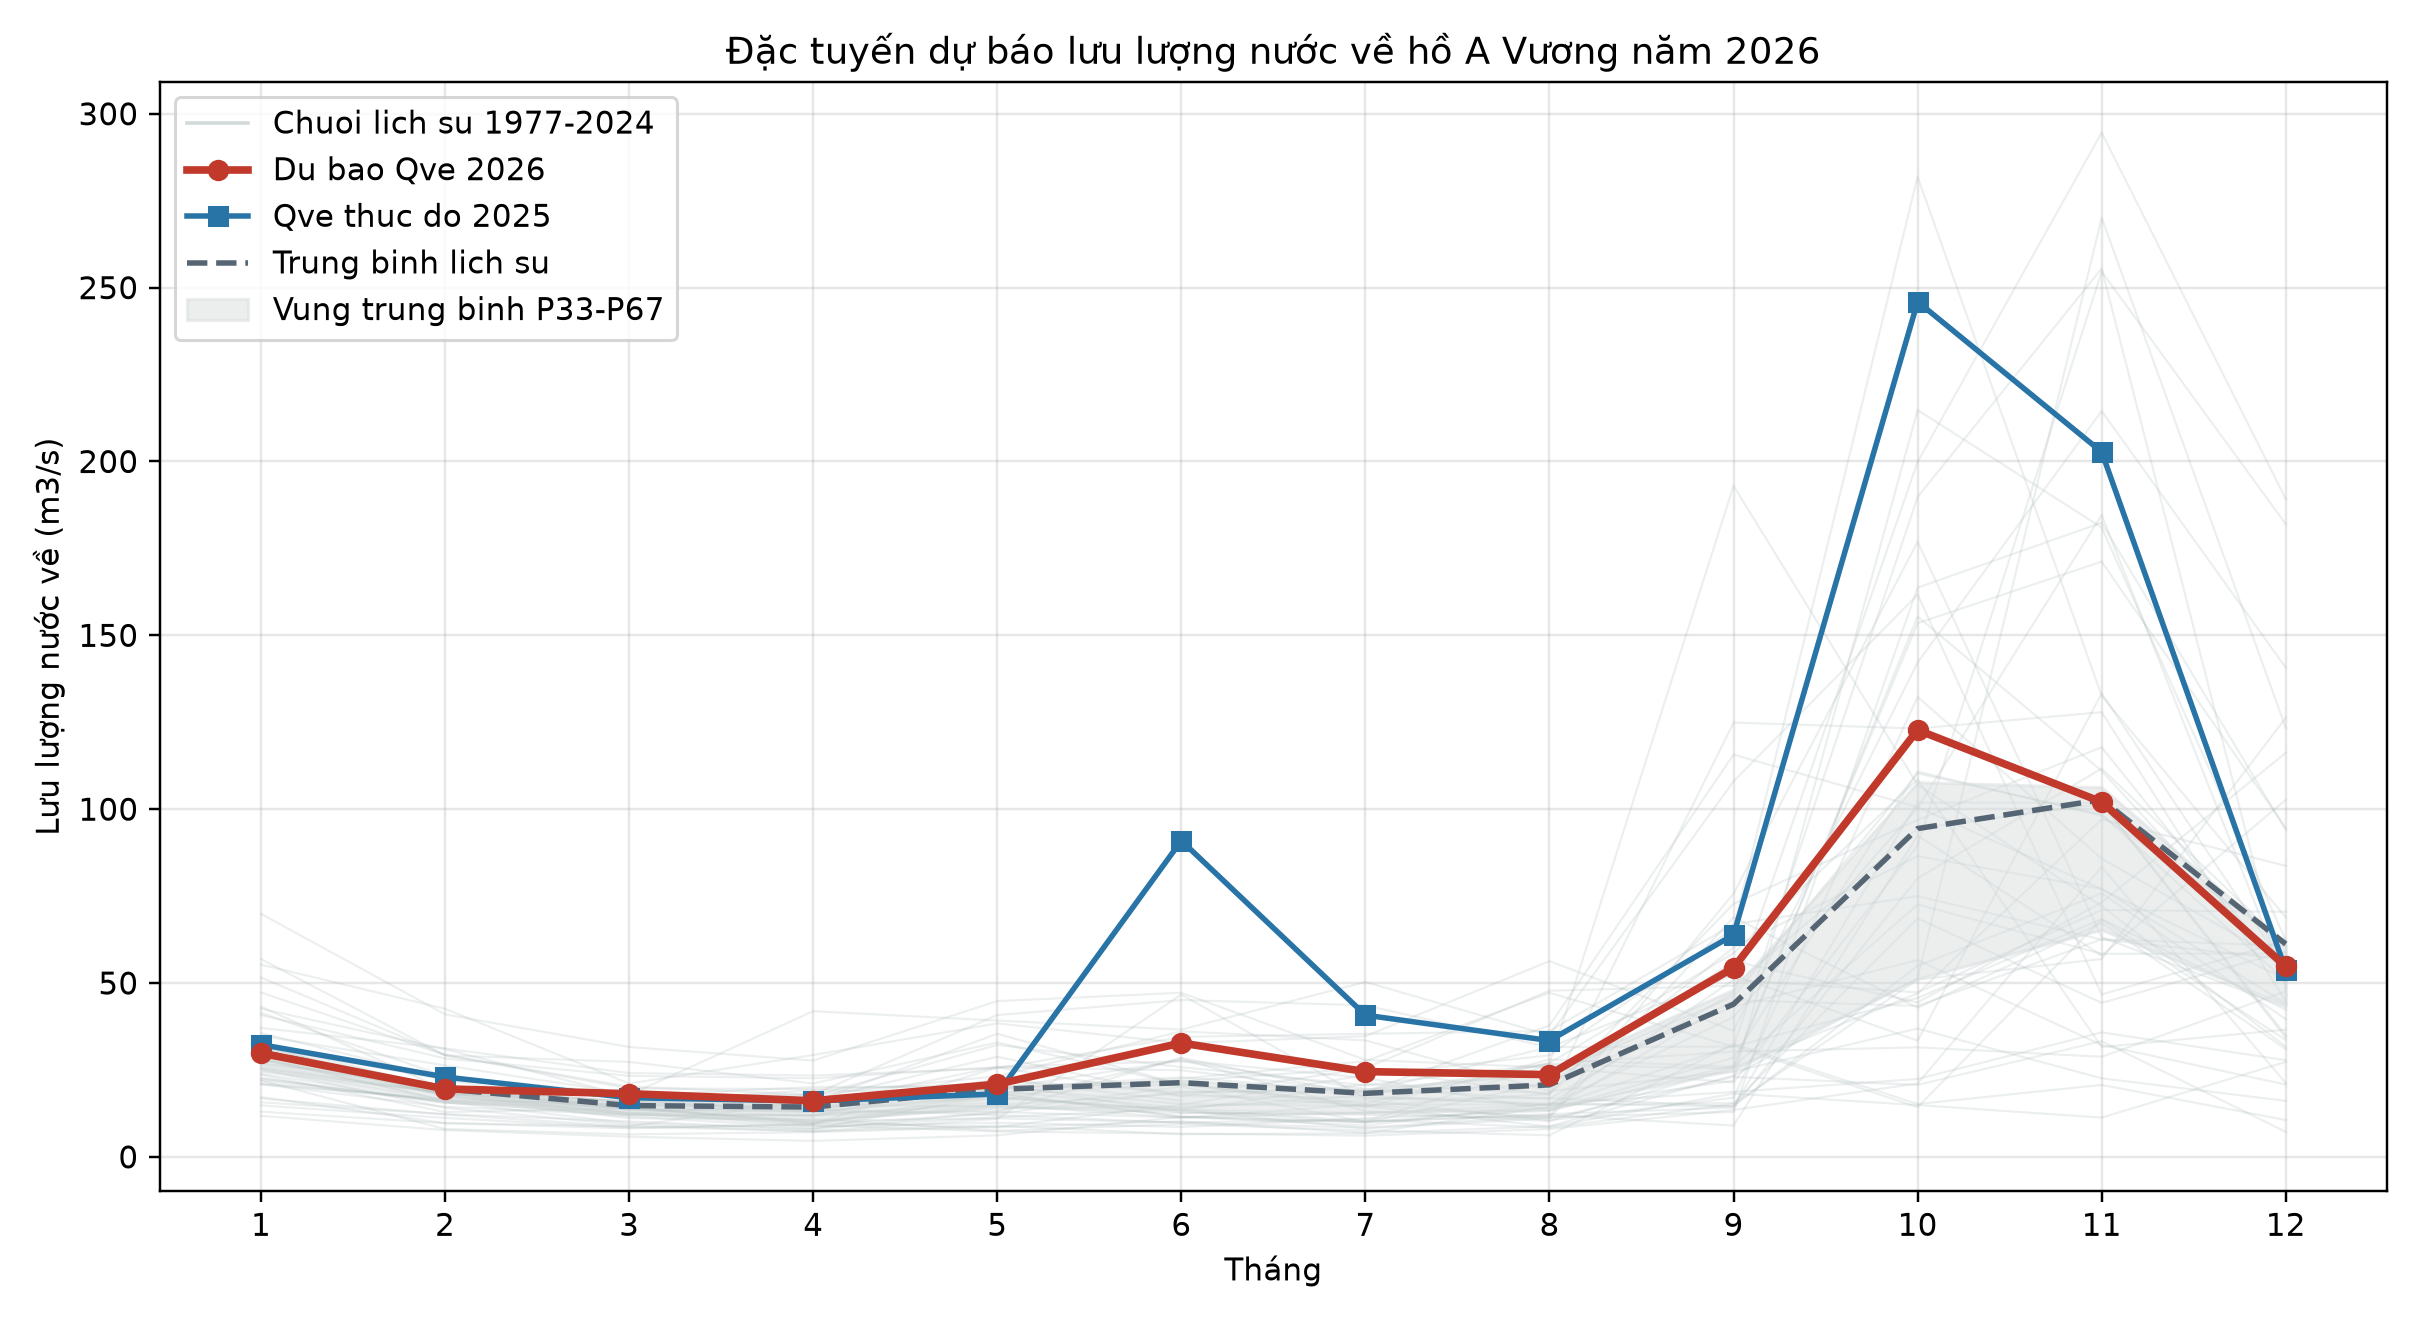
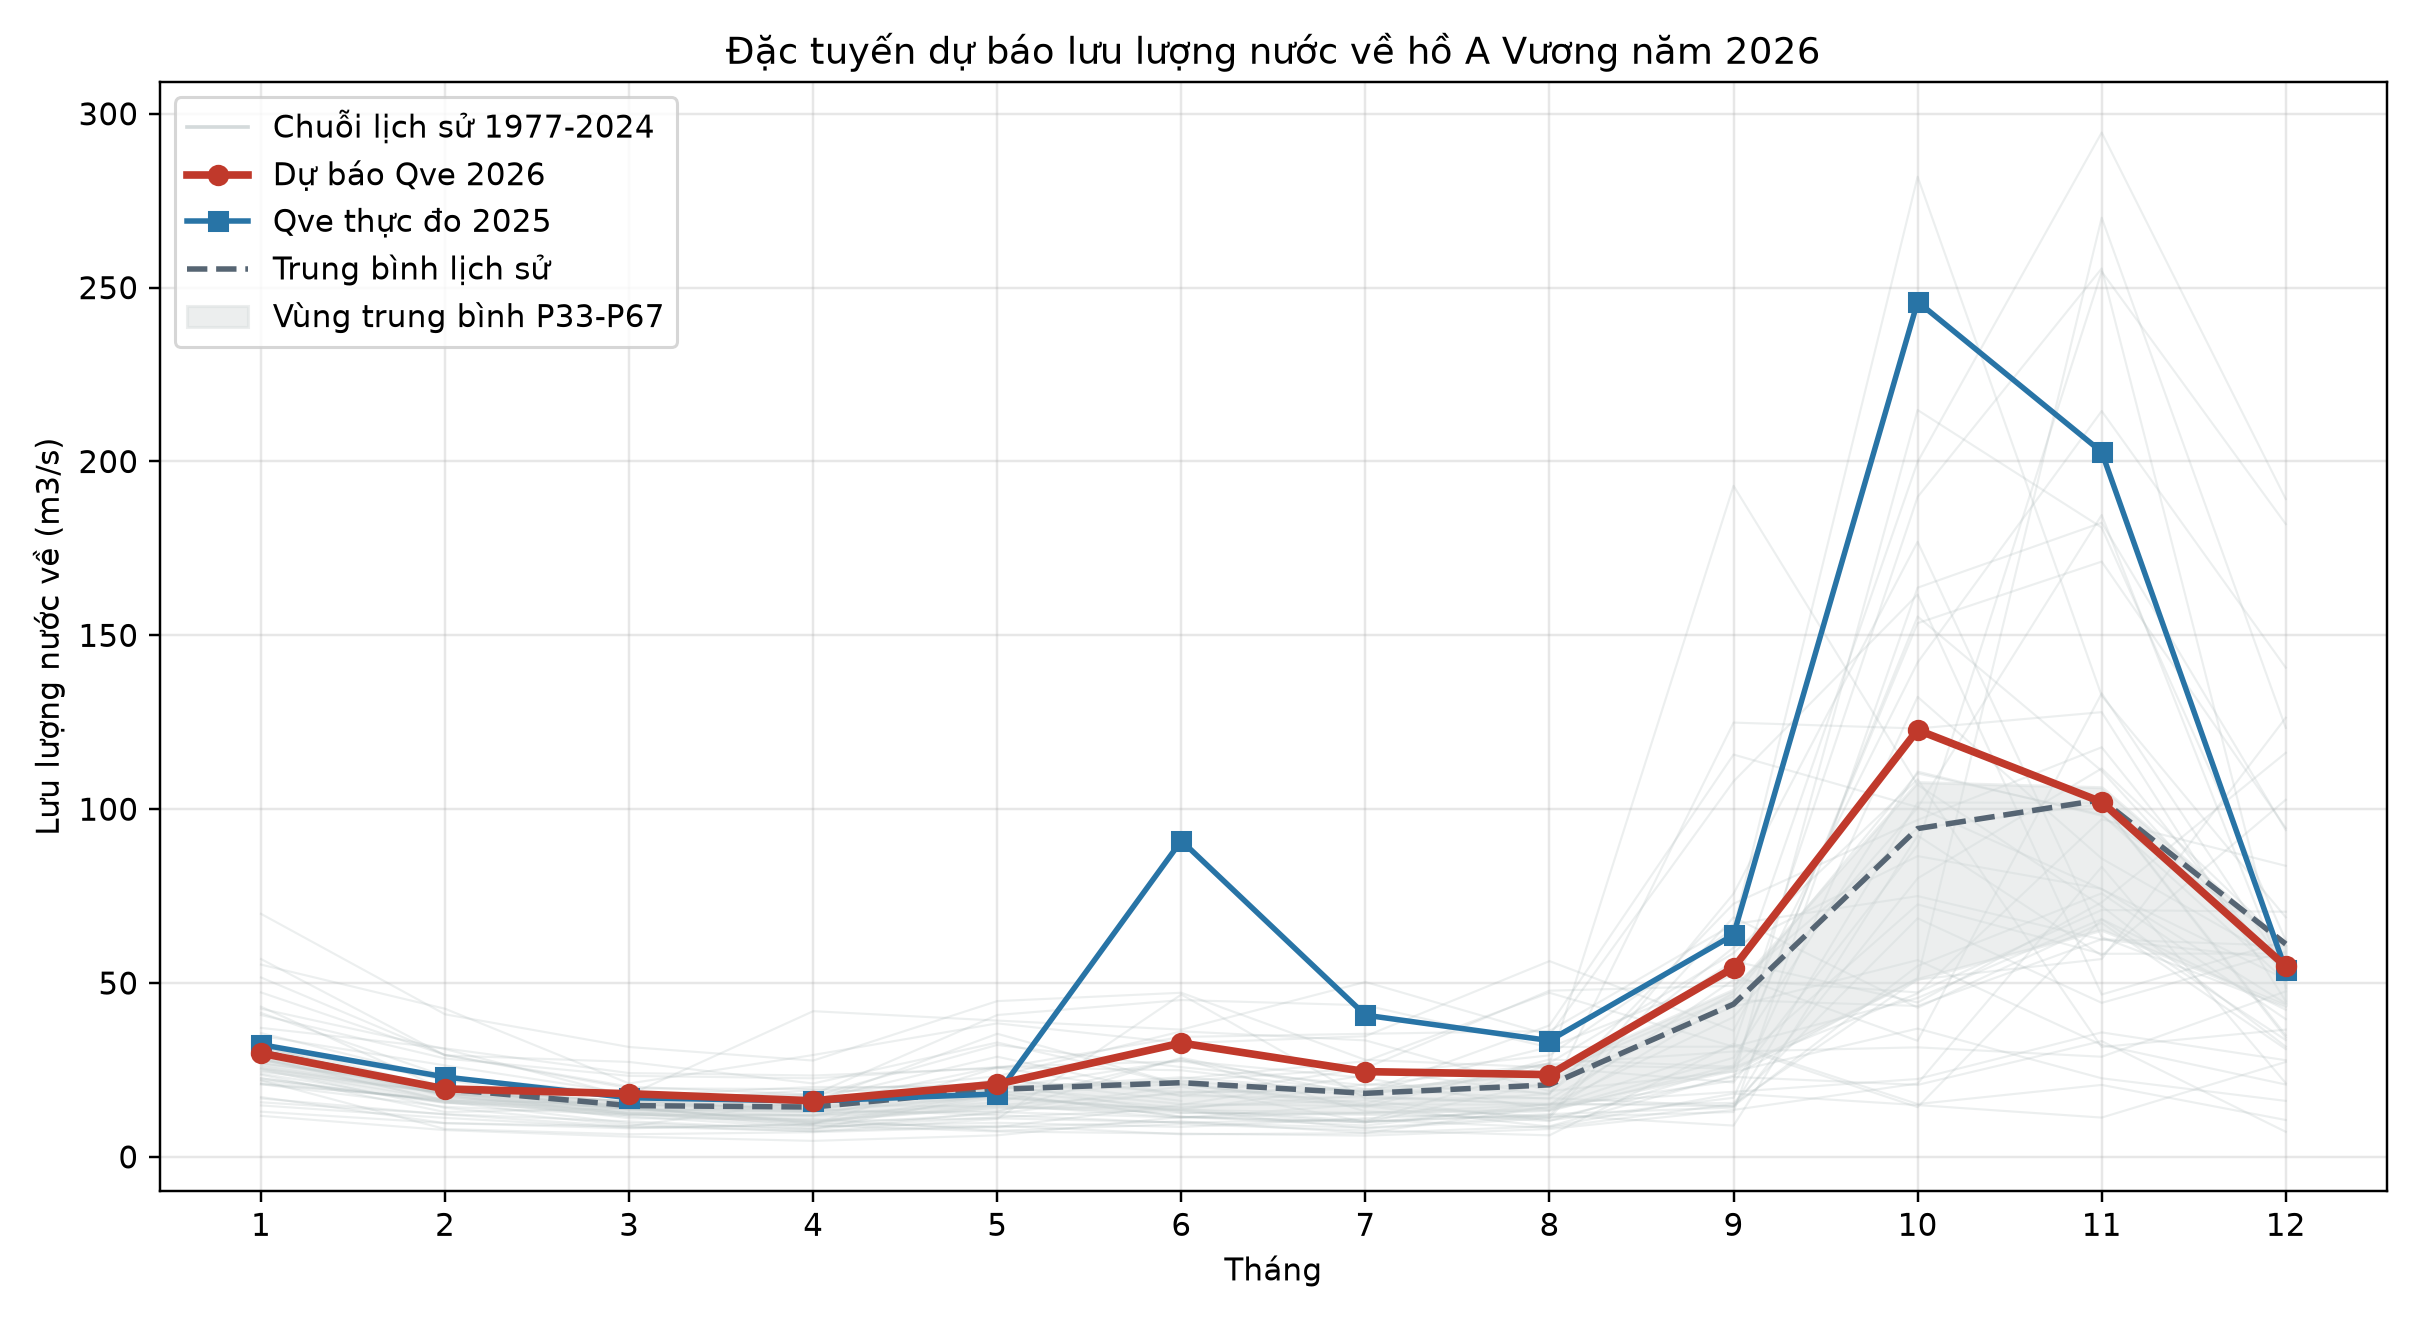
Use accented Vietnamese in comments and scenarios

Changed region(s): [[0.062, 0.0621, 0.2789, 0.2795]]

diff --git a/web_report/forecast-data.js b/web_report/forecast-data.js
@@ -1,10 +1,10 @@
 window.FORECAST_DATA_BY_YEAR = {
   "2026": {
     "year": 2026,
-    "generated_at": "2026-07-10T10:30:59",
+    "generated_at": "2026-07-14T14:53:15",
     "report_file": "bao_cao_du_bao_2026.xlsx",
     "chart_file": "du_bao_nuoc_ve_2026.png",
-    "executive_comment": "Nam 2026 duoc du bao nhieu nuoc hon trung binh lich su. Luu luong nuoc ve trung binh nam uoc tinh 43.3 m3/s, so voi trung binh lich su theo thang la 38.4 m3/s. Thang co du bao cao nhat la thang 10 (122.8 m3/s); thang thap nhat la thang 4 (16.1 m3/s). Can tiep tuc cap nhat theo dien bien mua va so lieu van hanh ho de hieu chinh du bao.",
+    "executive_comment": "Năm 2026 được dự báo nhiều nước hơn trung bình lịch sử. Lưu lượng nước về trung bình năm ước tính 43.3 m³/s, so với trung bình lịch sử theo tháng là 38.4 m³/s. Tháng có dự báo cao nhất là tháng 10 (122.8 m³/s); tháng thấp nhất là tháng 4 (16.1 m³/s). Cần tiếp tục cập nhật theo diễn biến mưa và số liệu vận hành hồ để hiệu chỉnh dự báo.",
     "summary": {
       "forecast_mean_m3s": 43.29,
       "historical_mean_m3s": 38.4,
@@ -27,9 +27,9 @@ window.FORECAST_DATA_BY_YEAR = {
         "frequency_pct_2025": 28,
         "frequency_pct_2026": 40,
         "forecast_flow_m3s": 29.81195524742163,
-        "scenario": "Trung binh",
-        "method": "Tan suat 2026 + nam tuong tu + trung binh gan han + xu the",
-        "note": "Co tan suat 2026"
+        "scenario": "Trung bình",
+        "method": "Tần suất 2026 + năm tương tự + trung bình gần hạn + xu thế",
+        "note": "Có tần suất 2026"
       },
       {
         "month": 2,
@@ -42,9 +42,9 @@ window.FORECAST_DATA_BY_YEAR = {
         "frequency_pct_2025": 22,
         "frequency_pct_2026": 40,
         "forecast_flow_m3s": 19.54355431547644,
-        "scenario": "Trung binh",
-        "method": "Tan suat 2026 + nam tuong tu + trung binh gan han + xu the",
-        "note": "Co tan suat 2026"
+        "scenario": "Trung bình",
+        "method": "Tần suất 2026 + năm tương tự + trung bình gần hạn + xu thế",
+        "note": "Có tần suất 2026"
       },
       {
         "month": 3,
@@ -57,9 +57,9 @@ window.FORECAST_DATA_BY_YEAR = {
         "frequency_pct_2025": 28,
         "frequency_pct_2026": 12,
         "forecast_flow_m3s": 18.16918172439249,
-        "scenario": "Nhieu nuoc",
-        "method": "Tan suat 2026 + nam tuong tu + trung binh gan han + xu the",
-        "note": "Co tan suat 2026"
+        "scenario": "Nhiều nước",
+        "method": "Tần suất 2026 + năm tương tự + trung bình gần hạn + xu thế",
+        "note": "Có tần suất 2026"
       },
       {
         "month": 4,
@@ -72,9 +72,9 @@ window.FORECAST_DATA_BY_YEAR = {
         "frequency_pct_2025": 30,
         "frequency_pct_2026": null,
         "forecast_flow_m3s": 16.13287294028715,
-        "scenario": "Nhieu nuoc",
-        "method": "Trung binh gan han + trung binh lich su + xu the + tham chieu 2025",
-        "note": "Chua co tan suat 2026, dung mo hinh bo sung"
+        "scenario": "Nhiều nước",
+        "method": "Trung bình gần hạn + trung bình lịch sử + xu thế + tham chiếu 2025",
+        "note": "Chưa có tần suất 2026, dùng mô hình bổ sung"
       },
       {
         "month": 5,
@@ -87,9 +87,9 @@ window.FORECAST_DATA_BY_YEAR = {
         "frequency_pct_2025": 51,
         "frequency_pct_2026": null,
         "forecast_flow_m3s": 20.92012270606299,
-        "scenario": "Nhieu nuoc",
-        "method": "Trung binh gan han + trung binh lich su + xu the + tham chieu 2025",
-        "note": "Chua co tan suat 2026, dung mo hinh bo sung"
+        "scenario": "Nhiều nước",
+        "method": "Trung bình gần hạn + trung bình lịch sử + xu thế + tham chiếu 2025",
+        "note": "Chưa có tần suất 2026, dùng mô hình bổ sung"
       },
       {
         "month": 6,
@@ -102,9 +102,9 @@ window.FORECAST_DATA_BY_YEAR = {
         "frequency_pct_2025": 2,
         "frequency_pct_2026": null,
         "forecast_flow_m3s": 32.74160594923088,
-        "scenario": "Nhieu nuoc",
-        "method": "Trung binh gan han + trung binh lich su + xu the + tham chieu 2025",
-        "note": "Chua co tan suat 2026, dung mo hinh bo sung"
+        "scenario": "Nhiều nước",
+        "method": "Trung bình gần hạn + trung bình lịch sử + xu thế + tham chiếu 2025",
+        "note": "Chưa có tần suất 2026, dùng mô hình bổ sung"
       },
       {
         "month": 7,
@@ -117,9 +117,9 @@ window.FORECAST_DATA_BY_YEAR = {
         "frequency_pct_2025": 8,
         "frequency_pct_2026": null,
         "forecast_flow_m3s": 24.52007294246342,
-        "scenario": "Nhieu nuoc",
-        "method": "Trung binh gan han + trung binh lich su + xu the + tham chieu 2025",
-        "note": "Chua co tan suat 2026, dung mo hinh bo sung"
+        "scenario": "Nhiều nước",
+        "method": "Trung bình gần hạn + trung bình lịch sử + xu thế + tham chiếu 2025",
+        "note": "Chưa có tần suất 2026, dùng mô hình bổ sung"
       },
       {
         "month": 8,
@@ -131,10 +131,10 @@ window.FORECAST_DATA_BY_YEAR = {
         "machine_flow_2025_m3s": 46.94610215053764,
         "frequency_pct_2025": 16,
         "frequency_pct_2026": null,
-        "forecast_flow_m3s": 23.65494380746377,
-        "scenario": "Trung binh",
-        "method": "Trung binh gan han + trung binh lich su + xu the + tham chieu 2025",
-        "note": "Chua co tan suat 2026, dung mo hinh bo sung"
+        "forecast_flow_m3s": 23.65494380746379,
+        "scenario": "Trung bình",
+        "method": "Trung bình gần hạn + trung bình lịch sử + xu thế + tham chiếu 2025",
+        "note": "Chưa có tần suất 2026, dùng mô hình bổ sung"
       },
       {
         "month": 9,
@@ -147,9 +147,9 @@ window.FORECAST_DATA_BY_YEAR = {
         "frequency_pct_2025": 20,
         "frequency_pct_2026": null,
         "forecast_flow_m3s": 54.38325898906808,
-        "scenario": "Nhieu nuoc",
-        "method": "Trung binh gan han + trung binh lich su + xu the + tham chieu 2025",
-        "note": "Chua co tan suat 2026, dung mo hinh bo sung"
+        "scenario": "Nhiều nước",
+        "method": "Trung bình gần hạn + trung bình lịch sử + xu thế + tham chiếu 2025",
+        "note": "Chưa có tần suất 2026, dùng mô hình bổ sung"
       },
       {
         "month": 10,
@@ -161,10 +161,10 @@ window.FORECAST_DATA_BY_YEAR = {
         "machine_flow_2025_m3s": 53.05833333333333,
         "frequency_pct_2025": 4,
         "frequency_pct_2026": null,
-        "forecast_flow_m3s": 122.7770006188099,
-        "scenario": "Nhieu nuoc",
-        "method": "Trung binh gan han + trung binh lich su + xu the + tham chieu 2025",
-        "note": "Chua co tan suat 2026, dung mo hinh bo sung"
+        "forecast_flow_m3s": 122.7770006188098,
+        "scenario": "Nhiều nước",
+        "method": "Trung bình gần hạn + trung bình lịch sử + xu thế + tham chiếu 2025",
+        "note": "Chưa có tần suất 2026, dùng mô hình bổ sung"
       },
       {
         "month": 11,
@@ -177,9 +177,9 @@ window.FORECAST_DATA_BY_YEAR = {
         "frequency_pct_2025": 12,
         "frequency_pct_2026": null,
         "forecast_flow_m3s": 102.0639947025512,
-        "scenario": "Trung binh",
-        "method": "Trung binh gan han + trung binh lich su + xu the + tham chieu 2025",
-        "note": "Chua co tan suat 2026, dung mo hinh bo sung"
+        "scenario": "Trung bình",
+        "method": "Trung bình gần hạn + trung bình lịch sử + xu thế + tham chiếu 2025",
+        "note": "Chưa có tần suất 2026, dùng mô hình bổ sung"
       },
       {
         "month": 12,
@@ -191,10 +191,10 @@ window.FORECAST_DATA_BY_YEAR = {
         "machine_flow_2025_m3s": 45.28920698924732,
         "frequency_pct_2025": 48,
         "frequency_pct_2026": null,
-        "forecast_flow_m3s": 54.7841657099686,
-        "scenario": "Trung binh",
-        "method": "Trung binh gan han + trung binh lich su + xu the + tham chieu 2025",
-        "note": "Chua co tan suat 2026, dung mo hinh bo sung"
+        "forecast_flow_m3s": 54.78416570996858,
+        "scenario": "Trung bình",
+        "method": "Trung bình gần hạn + trung bình lịch sử + xu thế + tham chiếu 2025",
+        "note": "Chưa có tần suất 2026, dùng mô hình bổ sung"
       }
     ],
     "annual": [
@@ -450,7 +450,7 @@ window.FORECAST_DATA_BY_YEAR = {
       },
       {
         "year": 2026,
-        "annual_mean_flow_m3s": 43.29189413776638,
+        "annual_mean_flow_m3s": 43.29189413776637,
         "data_type": "Du bao 2026"
       }
     ],
@@ -4067,7 +4067,7 @@ window.FORECAST_DATA_BY_YEAR = {
         "historical_p90_m3s": 35.36000000000001,
         "historical_max_m3s": 56.3,
         "recent_10y_mean_m3s": 21.65519713261649,
-        "linear_trend_2026_m3s": 29.00138762920892
+        "linear_trend_2026_m3s": 29.00138762920903
       },
       {
         "month": 9,
@@ -4097,7 +4097,7 @@ window.FORECAST_DATA_BY_YEAR = {
         "historical_p90_m3s": 180.7700000000001,
         "historical_max_m3s": 281.9,
         "recent_10y_mean_m3s": 114.7253455197128,
-        "linear_trend_2026_m3s": 121.5327701349618
+        "linear_trend_2026_m3s": 121.5327701349613
       },
       {
         "month": 11,
@@ -4127,7 +4127,7 @@ window.FORECAST_DATA_BY_YEAR = {
         "historical_p90_m3s": 118.36,
         "historical_max_m3s": 189.2,
         "recent_10y_mean_m3s": 51.49803225806437,
-        "linear_trend_2026_m3s": 52.45177946430829
+        "linear_trend_2026_m3s": 52.45177946430817
       }
     ],
     "downloads": {
@@ -4138,10 +4138,10 @@ window.FORECAST_DATA_BY_YEAR = {
   },
   "2027": {
     "year": 2027,
-    "generated_at": "2026-07-13T14:30:39",
+    "generated_at": "2026-07-14T14:53:35",
     "report_file": "bao_cao_du_bao_2027.xlsx",
     "chart_file": "du_bao_nuoc_ve_2027.png",
-    "executive_comment": "Nam 2027 duoc du bao nhieu nuoc hon trung binh lich su. Luu luong nuoc ve trung binh nam uoc tinh 43.1 m3/s, so voi trung binh lich su theo thang la 38.4 m3/s. Thang co du bao cao nhat la thang 10 (122.9 m3/s); thang thap nhat la thang 3 (15.0 m3/s). Can tiep tuc cap nhat theo dien bien mua va so lieu van hanh ho de hieu chinh du bao.",
+    "executive_comment": "Năm 2027 được dự báo nhiều nước hơn trung bình lịch sử. Lưu lượng nước về trung bình năm ước tính 43.1 m³/s, so với trung bình lịch sử theo tháng là 38.4 m³/s. Tháng có dự báo cao nhất là tháng 10 (122.9 m³/s); tháng thấp nhất là tháng 3 (15.0 m³/s). Cần tiếp tục cập nhật theo diễn biến mưa và số liệu vận hành hồ để hiệu chỉnh dự báo.",
     "summary": {
       "forecast_mean_m3s": 43.09,
       "historical_mean_m3s": 38.4,
@@ -4164,9 +4164,9 @@ window.FORECAST_DATA_BY_YEAR = {
         "frequency_pct_2025": 28,
         "frequency_pct_2027": null,
         "forecast_flow_m3s": 30.16966991716052,
-        "scenario": "Trung binh",
-        "method": "Trung binh gan han + trung binh lich su + xu the + tham chieu 2025",
-        "note": "Chua co tan suat 2027, dung mo hinh bo sung"
+        "scenario": "Trung bình",
+        "method": "Trung bình gần hạn + trung bình lịch sử + xu thế + tham chiếu 2025",
+        "note": "Chưa có tần suất 2027, dùng mô hình bổ sung"
       },
       {
         "month": 2,
@@ -4179,9 +4179,9 @@ window.FORECAST_DATA_BY_YEAR = {
         "frequency_pct_2025": 22,
         "frequency_pct_2027": null,
         "forecast_flow_m3s": 19.59522514880986,
-        "scenario": "Trung binh",
-        "method": "Trung binh gan han + trung binh lich su + xu the + tham chieu 2025",
-        "note": "Chua co tan suat 2027, dung mo hinh bo sung"
+        "scenario": "Trung bình",
+        "method": "Trung bình gần hạn + trung bình lịch sử + xu thế + tham chiếu 2025",
+        "note": "Chưa có tần suất 2027, dùng mô hình bổ sung"
       },
       {
         "month": 3,
@@ -4194,9 +4194,9 @@ window.FORECAST_DATA_BY_YEAR = {
         "frequency_pct_2025": 28,
         "frequency_pct_2027": null,
         "forecast_flow_m3s": 14.95198864536885,
-        "scenario": "Trung binh",
-        "method": "Trung binh gan han + trung binh lich su + xu the + tham chieu 2025",
-        "note": "Chua co tan suat 2027, dung mo hinh bo sung"
+        "scenario": "Trung bình",
+        "method": "Trung bình gần hạn + trung bình lịch sử + xu thế + tham chiếu 2025",
+        "note": "Chưa có tần suất 2027, dùng mô hình bổ sung"
       },
       {
         "month": 4,
@@ -4209,9 +4209,9 @@ window.FORECAST_DATA_BY_YEAR = {
         "frequency_pct_2025": 30,
         "frequency_pct_2027": null,
         "forecast_flow_m3s": 16.16055106953885,
-        "scenario": "Nhieu nuoc",
-        "method": "Trung binh gan han + trung binh lich su + xu the + tham chieu 2025",
-        "note": "Chua co tan suat 2027, dung mo hinh bo sung"
+        "scenario": "Nhiều nước",
+        "method": "Trung bình gần hạn + trung bình lịch sử + xu thế + tham chiếu 2025",
+        "note": "Chưa có tần suất 2027, dùng mô hình bổ sung"
       },
       {
         "month": 5,
@@ -4224,9 +4224,9 @@ window.FORECAST_DATA_BY_YEAR = {
         "frequency_pct_2025": 51,
         "frequency_pct_2027": null,
         "forecast_flow_m3s": 20.95626489774611,
-        "scenario": "Nhieu nuoc",
-        "method": "Trung binh gan han + trung binh lich su + xu the + tham chieu 2025",
-        "note": "Chua co tan suat 2027, dung mo hinh bo sung"
+        "scenario": "Nhiều nước",
+        "method": "Trung bình gần hạn + trung bình lịch sử + xu thế + tham chiếu 2025",
+        "note": "Chưa có tần suất 2027, dùng mô hình bổ sung"
       },
       {
         "month": 6,
@@ -4239,9 +4239,9 @@ window.FORECAST_DATA_BY_YEAR = {
         "frequency_pct_2025": 2,
         "frequency_pct_2027": null,
         "forecast_flow_m3s": 32.78412279730345,
-        "scenario": "Nhieu nuoc",
-        "method": "Trung binh gan han + trung binh lich su + xu the + tham chieu 2025",
-        "note": "Chua co tan suat 2027, dung mo hinh bo sung"
+        "scenario": "Nhiều nước",
+        "method": "Trung bình gần hạn + trung bình lịch sử + xu thế + tham chiếu 2025",
+        "note": "Chưa có tần suất 2027, dùng mô hình bổ sung"
       },
       {
         "month": 7,
@@ -4254,9 +4254,9 @@ window.FORECAST_DATA_BY_YEAR = {
         "frequency_pct_2025": 8,
         "frequency_pct_2027": null,
         "forecast_flow_m3s": 24.57507303103012,
-        "scenario": "Nhieu nuoc",
-        "method": "Trung binh gan han + trung binh lich su + xu the + tham chieu 2025",
-        "note": "Chua co tan suat 2027, dung mo hinh bo sung"
+        "scenario": "Nhiều nước",
+        "method": "Trung bình gần hạn + trung bình lịch sử + xu thế + tham chiếu 2025",
+        "note": "Chưa có tần suất 2027, dùng mô hình bổ sung"
       },
       {
         "month": 8,
@@ -4269,9 +4269,9 @@ window.FORECAST_DATA_BY_YEAR = {
         "frequency_pct_2025": 16,
         "frequency_pct_2027": null,
         "forecast_flow_m3s": 23.70372319849516,
-        "scenario": "Trung binh",
-        "method": "Trung binh gan han + trung binh lich su + xu the + tham chieu 2025",
-        "note": "Chua co tan suat 2027, dung mo hinh bo sung"
+        "scenario": "Trung bình",
+        "method": "Trung bình gần hạn + trung bình lịch sử + xu thế + tham chiếu 2025",
+        "note": "Chưa có tần suất 2027, dùng mô hình bổ sung"
       },
       {
         "month": 9,
@@ -4284,9 +4284,9 @@ window.FORECAST_DATA_BY_YEAR = {
         "frequency_pct_2025": 20,
         "frequency_pct_2027": null,
         "forecast_flow_m3s": 54.54717778089236,
-        "scenario": "Nhieu nuoc",
-        "method": "Trung binh gan han + trung binh lich su + xu the + tham chieu 2025",
-        "note": "Chua co tan suat 2027, dung mo hinh bo sung"
+        "scenario": "Nhiều nước",
+        "method": "Trung bình gần hạn + trung bình lịch sử + xu thế + tham chiếu 2025",
+        "note": "Chưa có tần suất 2027, dùng mô hình bổ sung"
       },
       {
         "month": 10,
@@ -4299,9 +4299,9 @@ window.FORECAST_DATA_BY_YEAR = {
         "frequency_pct_2025": 4,
         "frequency_pct_2027": null,
         "forecast_flow_m3s": 122.9366309758762,
-        "scenario": "Nhieu nuoc",
-        "method": "Trung binh gan han + trung binh lich su + xu the + tham chieu 2025",
-        "note": "Chua co tan suat 2027, dung mo hinh bo sung"
+        "scenario": "Nhiều nước",
+        "method": "Trung bình gần hạn + trung bình lịch sử + xu thế + tham chiếu 2025",
+        "note": "Chưa có tần suất 2027, dùng mô hình bổ sung"
       },
       {
         "month": 11,
@@ -4314,9 +4314,9 @@ window.FORECAST_DATA_BY_YEAR = {
         "frequency_pct_2025": 12,
         "frequency_pct_2027": null,
         "forecast_flow_m3s": 101.999870396805,
-        "scenario": "Trung binh",
-        "method": "Trung binh gan han + trung binh lich su + xu the + tham chieu 2025",
-        "note": "Chua co tan suat 2027, dung mo hinh bo sung"
+        "scenario": "Trung bình",
+        "method": "Trung bình gần hạn + trung bình lịch sử + xu thế + tham chiếu 2025",
+        "note": "Chưa có tần suất 2027, dùng mô hình bổ sung"
       },
       {
         "month": 12,
@@ -4329,9 +4329,9 @@ window.FORECAST_DATA_BY_YEAR = {
         "frequency_pct_2025": 48,
         "frequency_pct_2027": null,
         "forecast_flow_m3s": 54.73258007117539,
-        "scenario": "Trung binh",
-        "method": "Trung binh gan han + trung binh lich su + xu the + tham chieu 2025",
-        "note": "Chua co tan suat 2027, dung mo hinh bo sung"
+        "scenario": "Trung bình",
+        "method": "Trung bình gần hạn + trung bình lịch sử + xu thế + tham chiếu 2025",
+        "note": "Chưa có tần suất 2027, dùng mô hình bổ sung"
       }
     ],
     "annual": [